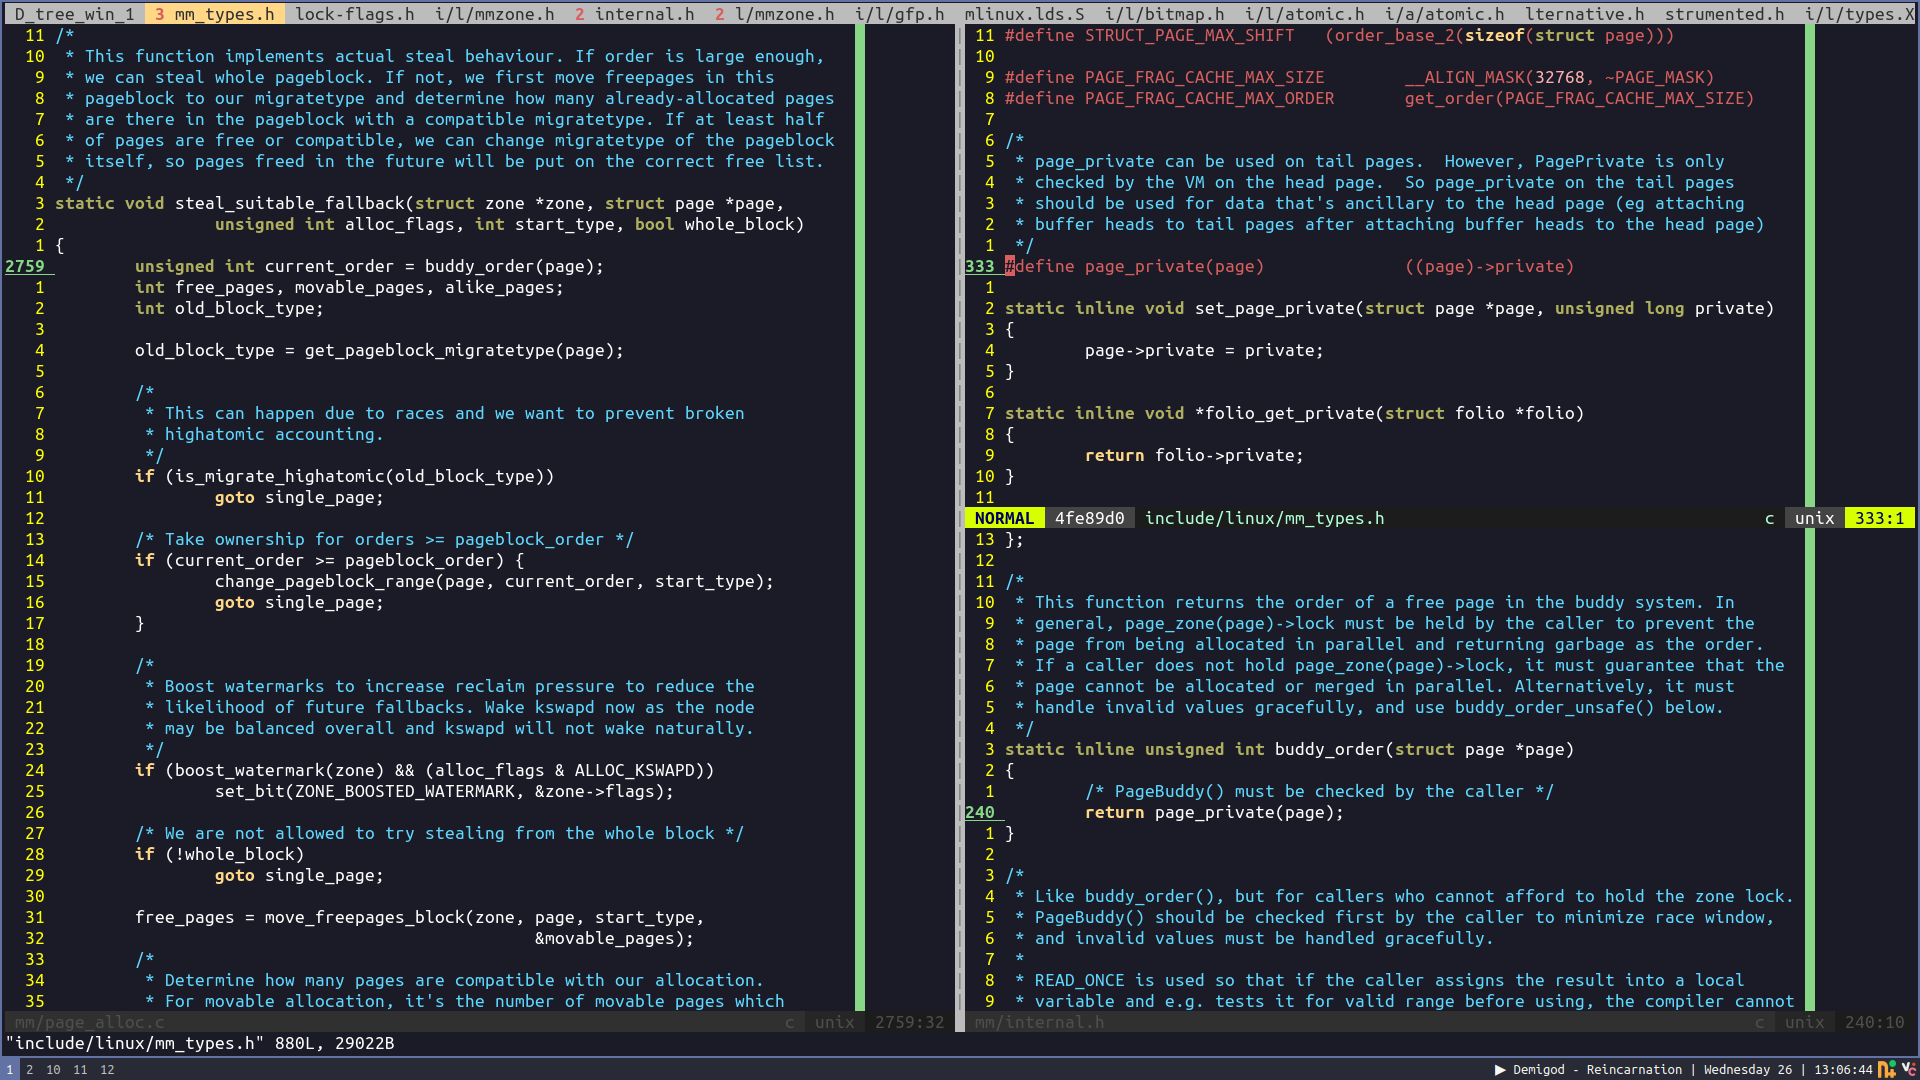
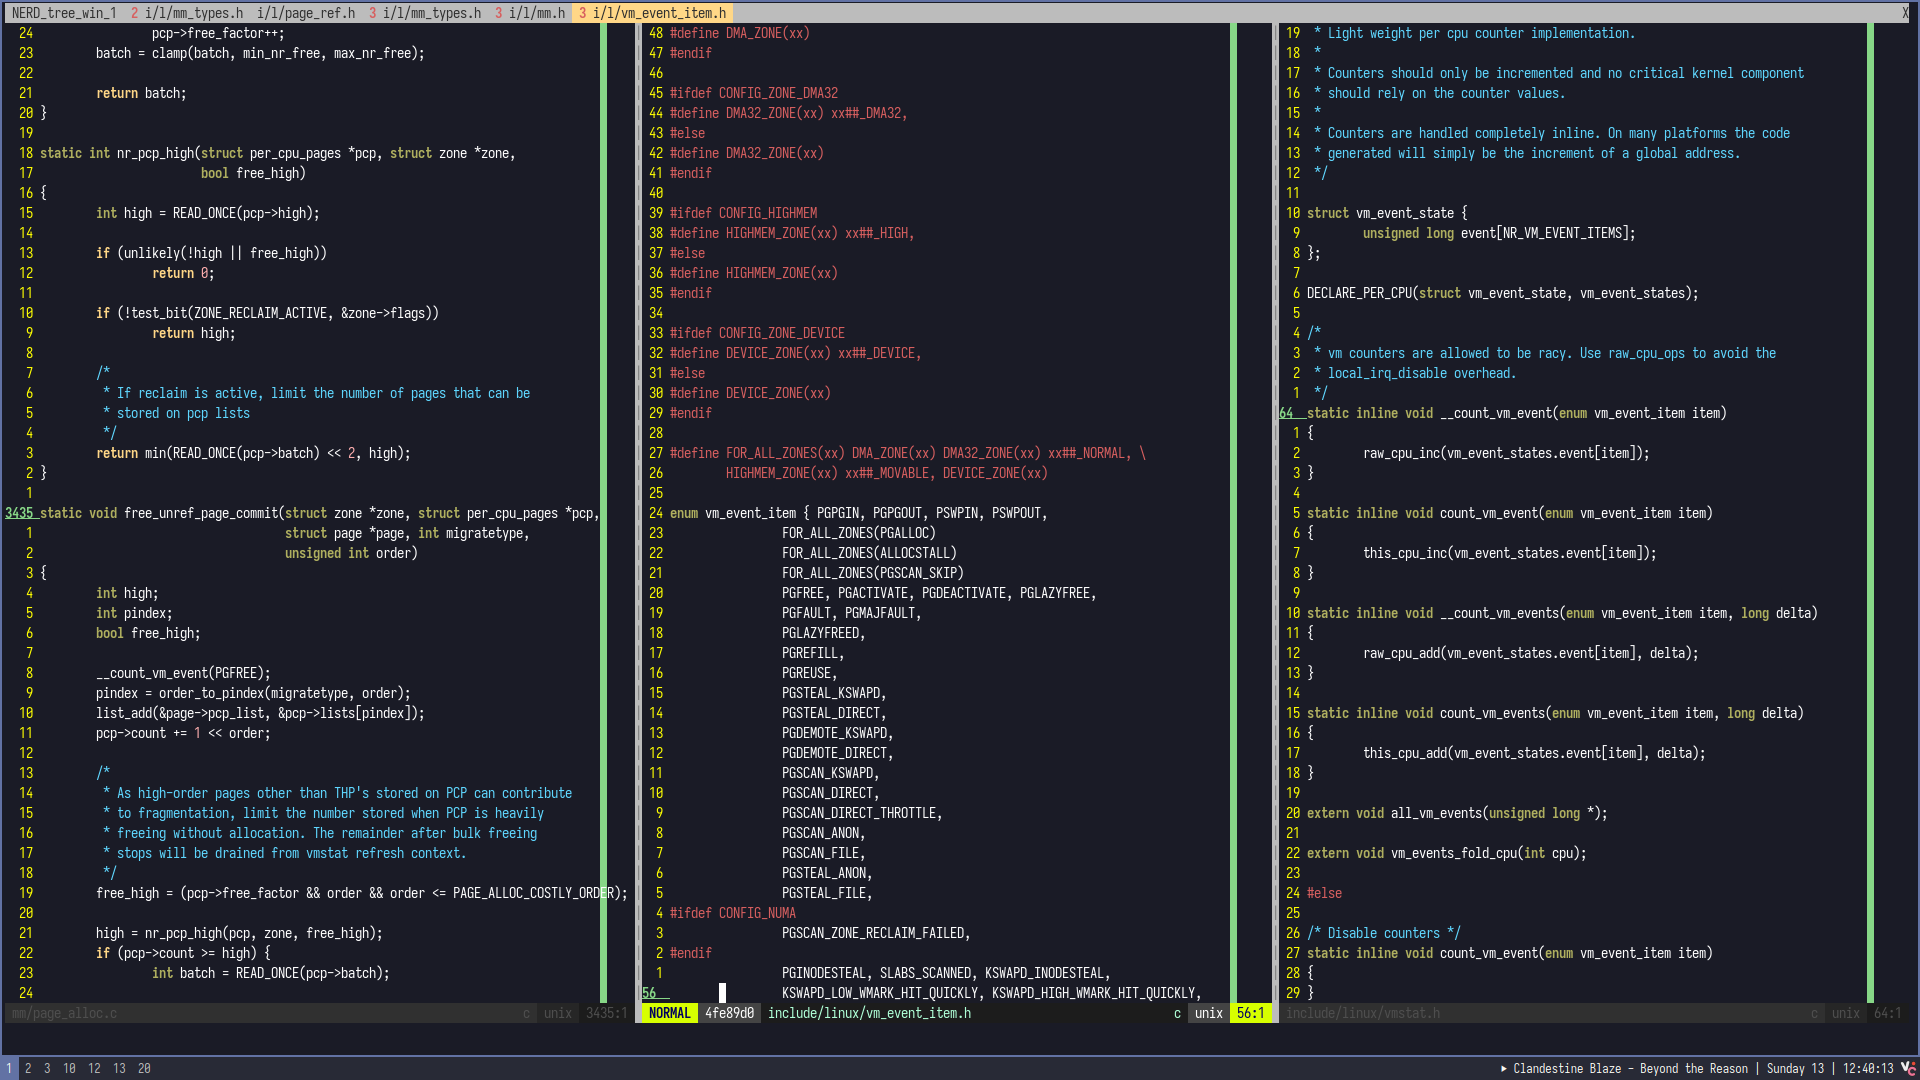
purity without gimmick

Changed region(s): [[0.0, 0.0, 1.0, 1.0], [0.7812, 0.9778, 1.0, 1.0], [0.0, 0.5194, 0.0312, 0.5806]]

diff --git a/README.md b/README.md
@@ -13,7 +13,4 @@ curl -fLo ~/.vim/autoload/plug.vim --create-dirs \
 ```bash
 git clone https://github.com/tmux-plugins/tpm ~/.tmux/plugins/tpm
 ```
-
-### keyd setup
-
-started using colemak after the right metacarpal fracture on 19/02/2026
+## adversity is a privilege
